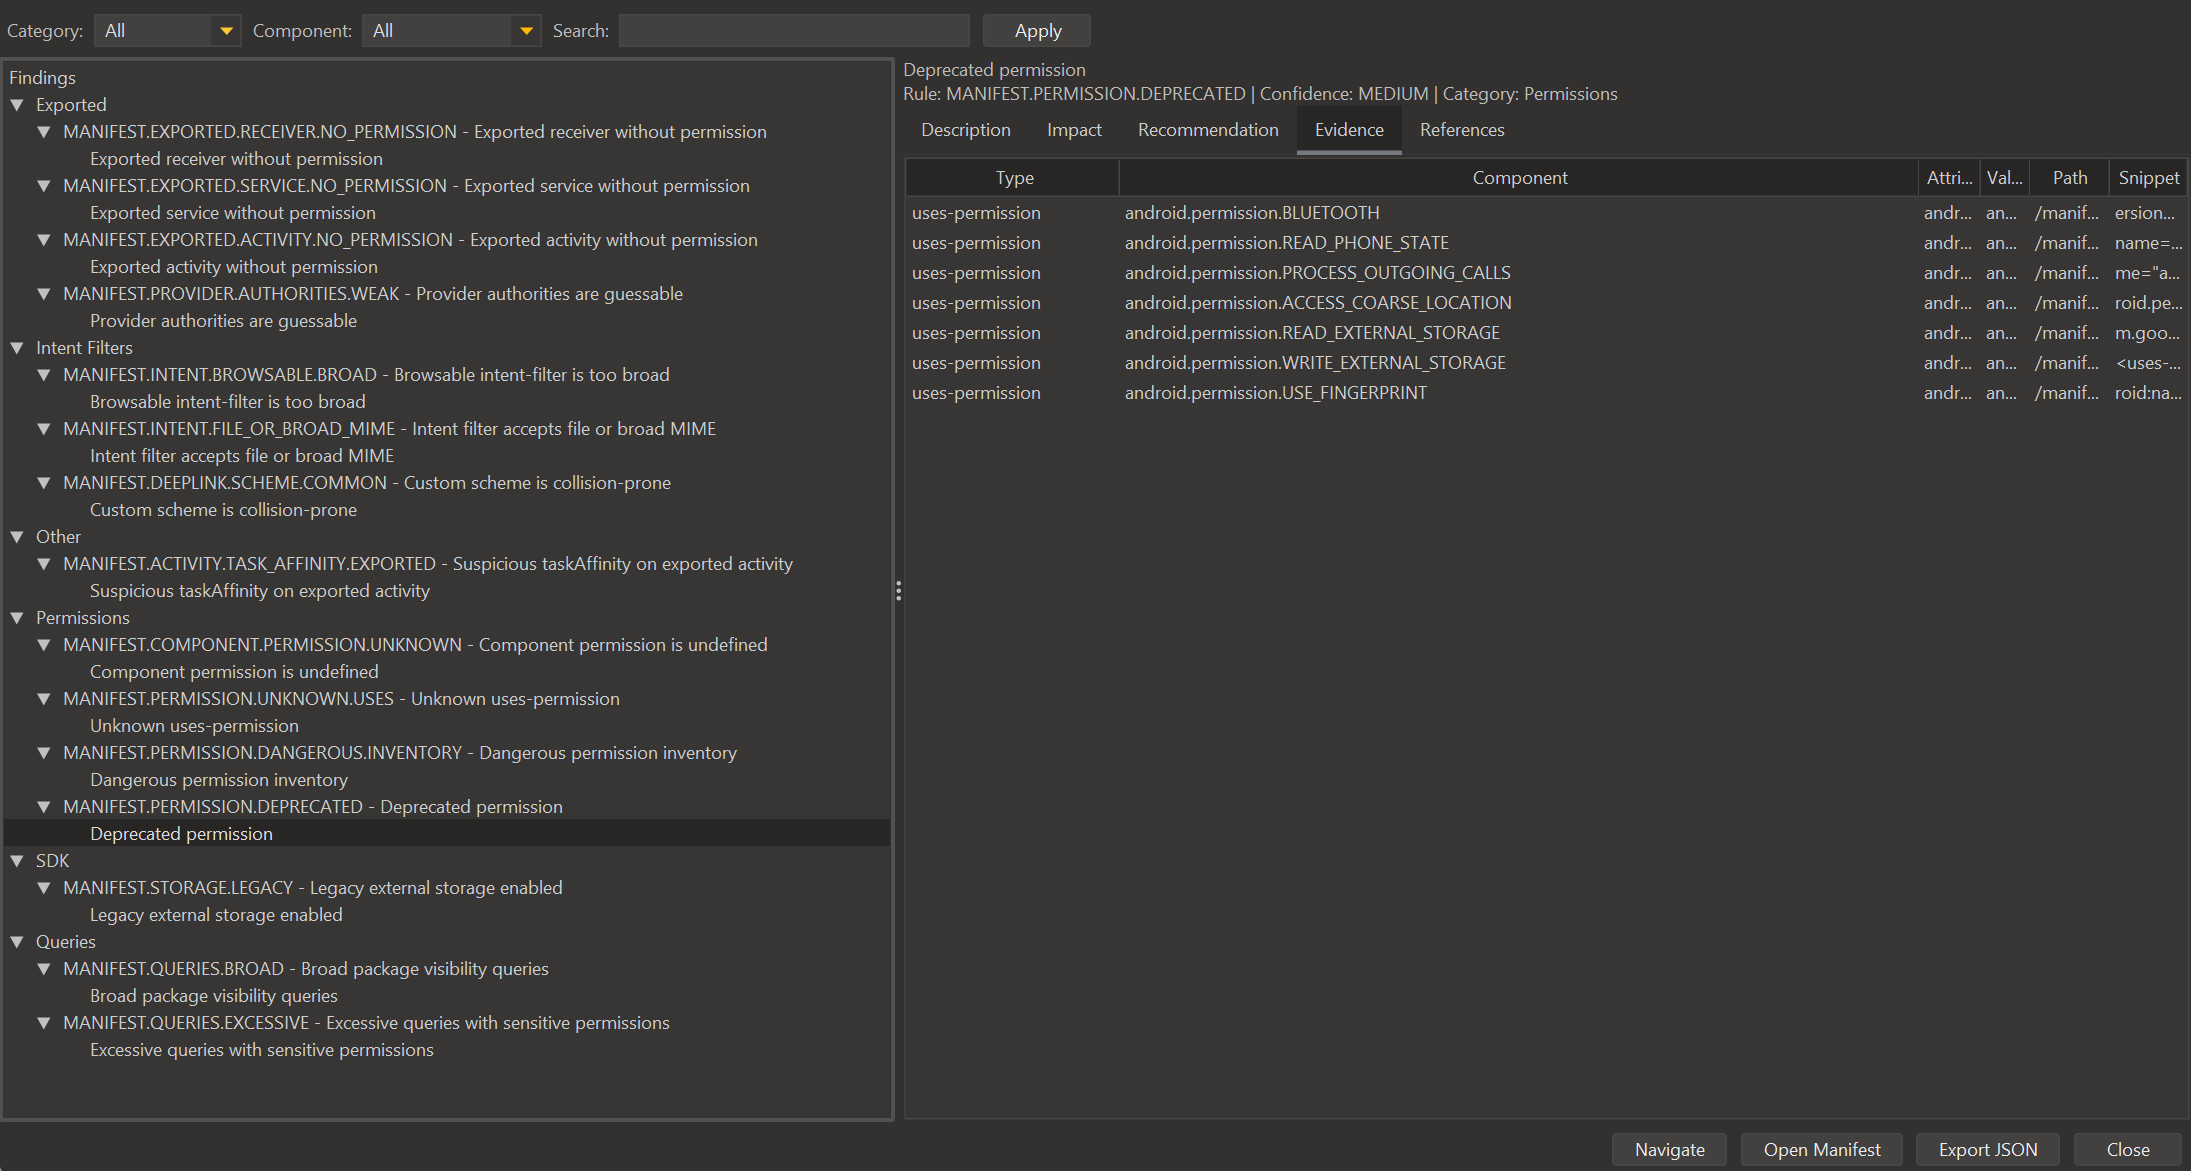
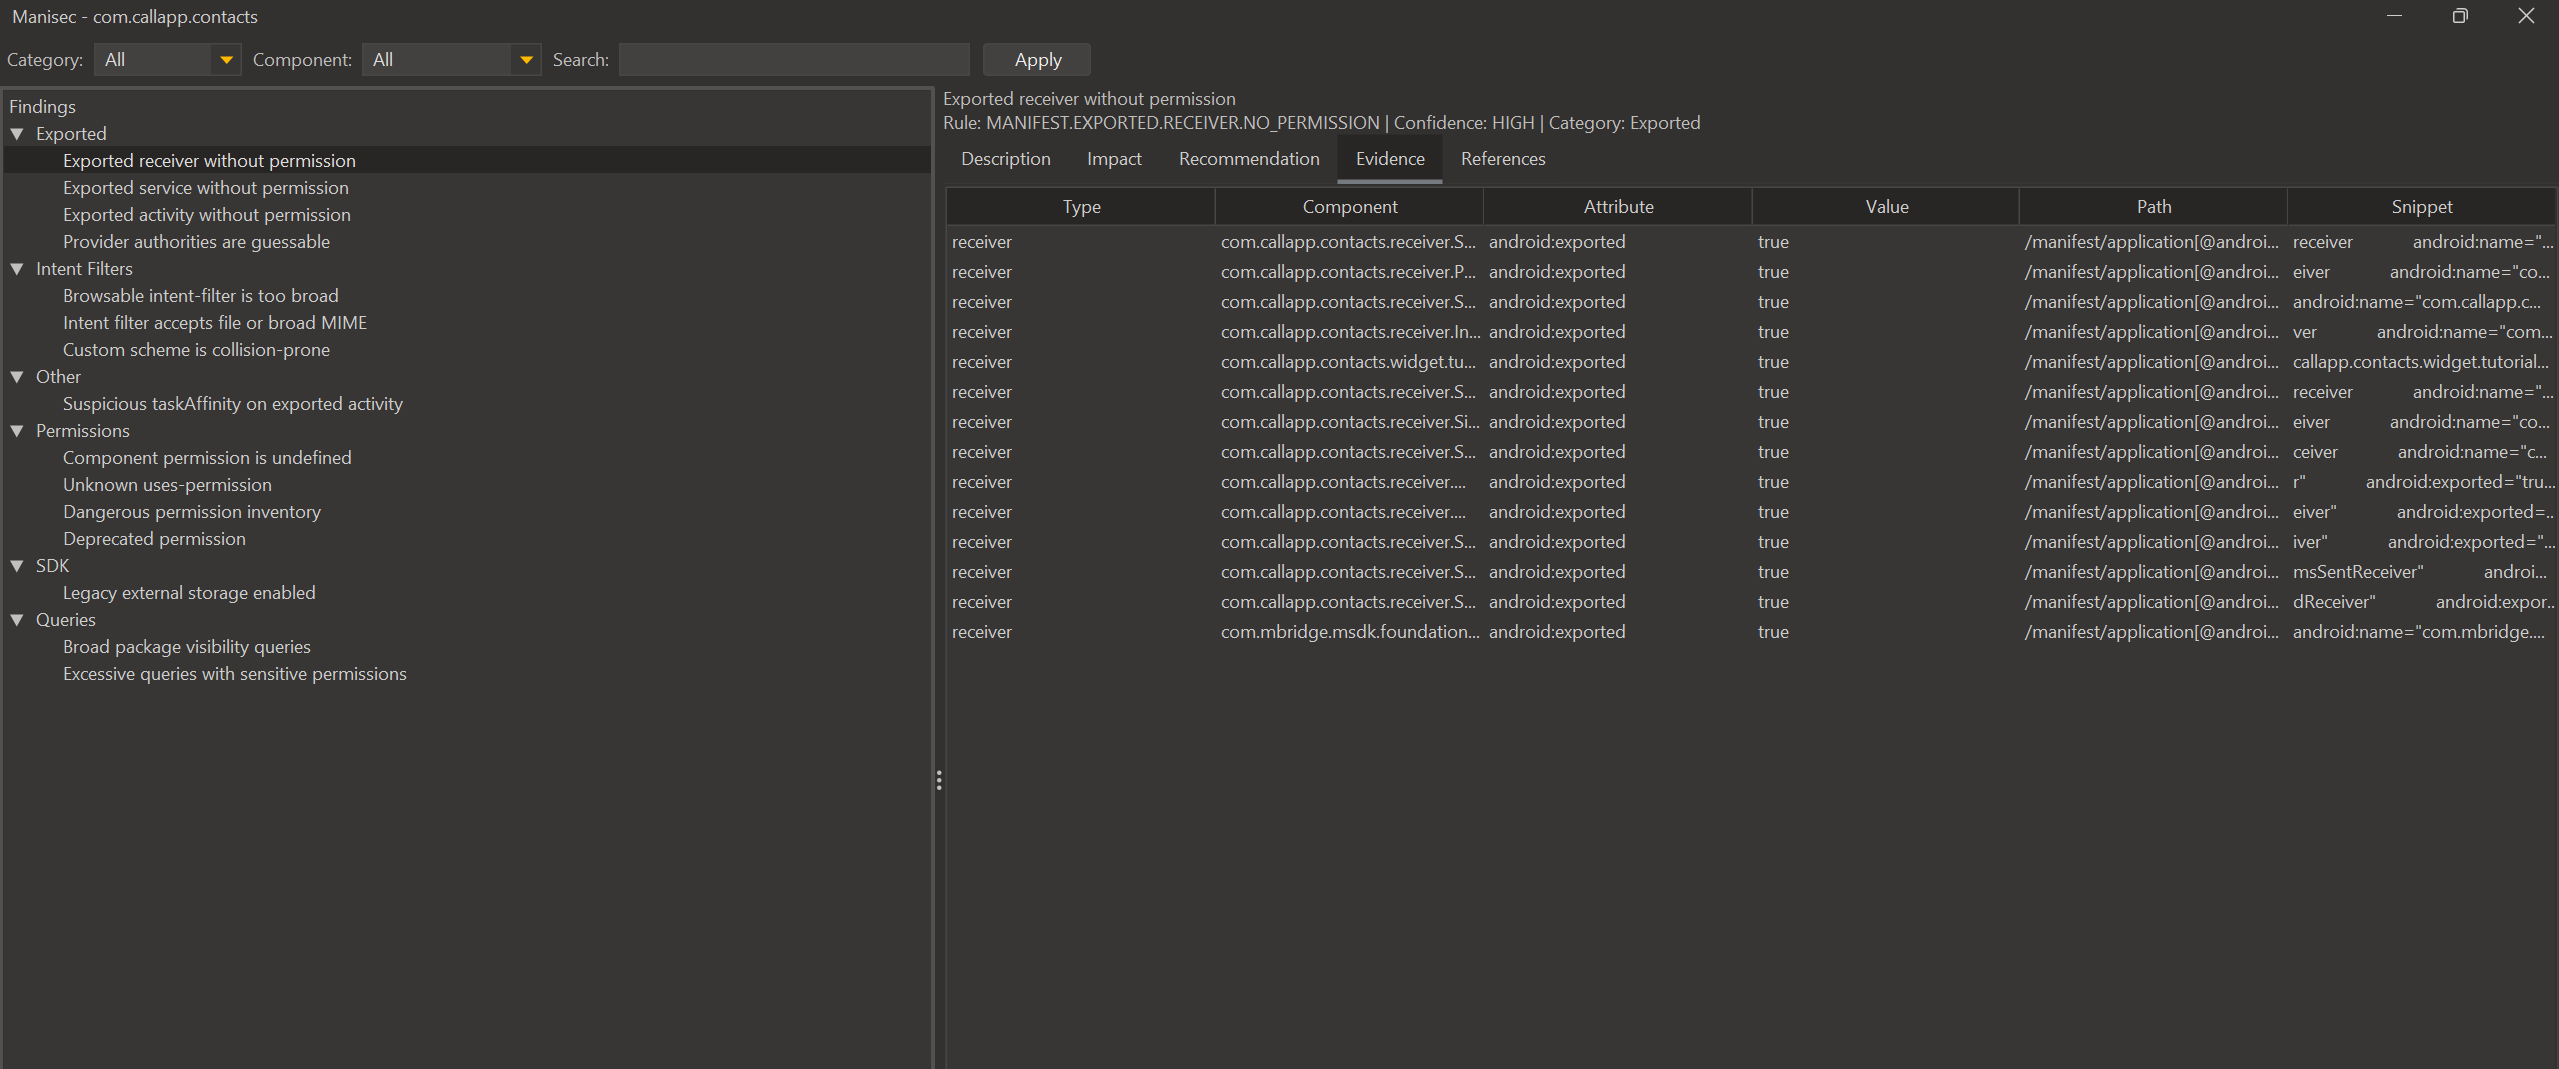
Improved tree structure

diff --git a/src/main/java/com/manifestsecurity/ui/ManifestSecurityDialog.java b/src/main/java/com/manifestsecurity/ui/ManifestSecurityDialog.java
@@ -167,7 +167,6 @@ public class ManifestSecurityDialog extends JFrame {
     private void rebuildTree() {
         DefaultMutableTreeNode root = new DefaultMutableTreeNode(new TreeItem("Findings", null));
         Map<String, DefaultMutableTreeNode> categoryNodes = new HashMap<>();
-        Map<String, DefaultMutableTreeNode> ruleNodes = new HashMap<>();
         for (Finding finding : filtered) {
             String category = safeCategory(finding.getCategory());
             DefaultMutableTreeNode categoryNode = categoryNodes.get(category);
@@ -176,16 +175,8 @@ public class ManifestSecurityDialog extends JFrame {
                 categoryNodes.put(category, categoryNode);
                 root.add(categoryNode);
             }
-            String ruleKey = category + "|" + finding.getId();
-            DefaultMutableTreeNode ruleNode = ruleNodes.get(ruleKey);
-            if (ruleNode == null) {
-                String label = finding.getId() + " - " + finding.getTitle();
-                ruleNode = new DefaultMutableTreeNode(new TreeItem(label, null));
-                ruleNodes.put(ruleKey, ruleNode);
-                categoryNode.add(ruleNode);
-            }
             String leafLabel = finding.getTitle();
-            ruleNode.add(new DefaultMutableTreeNode(new TreeItem(leafLabel, finding)));
+            categoryNode.add(new DefaultMutableTreeNode(new TreeItem(leafLabel, finding)));
         }
         tree.setModel(new DefaultTreeModel(root));
         for (int i = 0; i < tree.getRowCount(); i++) {
